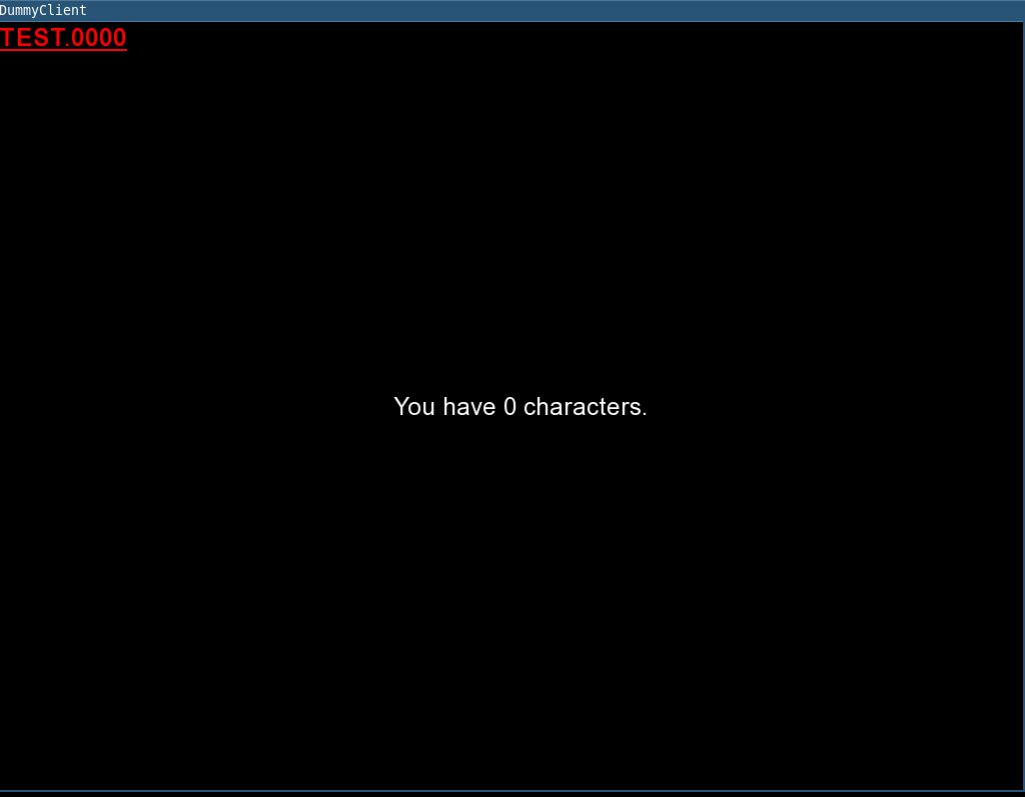
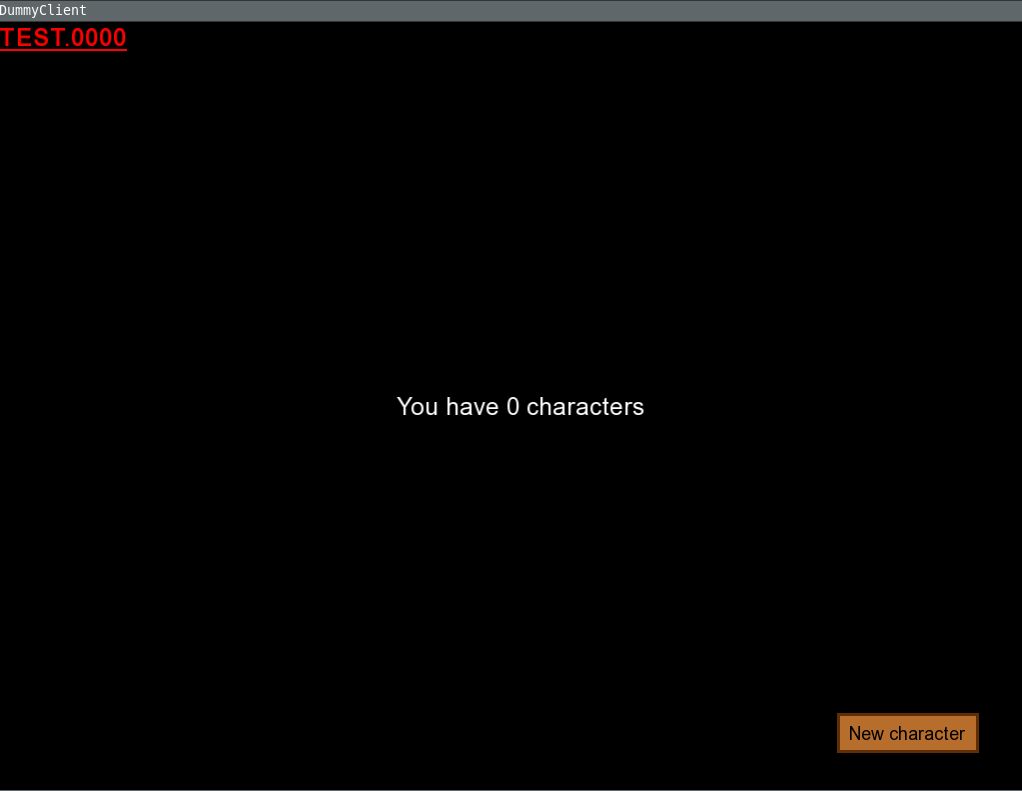
Change SelectCharacterScreen

Changed region(s): [[0.0, 0.8799, 1.0, 1.0], [0.0, 0.0, 1.0, 0.0607], [0.3943, 0.4855, 0.637, 0.5461]]

diff --git a/src/screen/select_character_screen.cpp b/src/screen/select_character_screen.cpp
@@ -29,10 +29,10 @@ SelectCharacterScreen::SelectCharacterScreen(::Game& game,
     m_createCharacterButton->setCaption("New character");
 
     m_accountLabel
-        ->setCaption("Hello!")
-        .setFontSize(18)
-        .setColor(sf::Color::Green)
-        .setStyle(0)
+        ->setCaption(m_client.account())
+        .setFontSize(24)
+        .setColor(sf::Color::Red)
+        .setStyle(sf::Text::Bold | sf::Text::Underlined)
         .setFont("arial.ttf")
         .setPos(100, 100);
 
